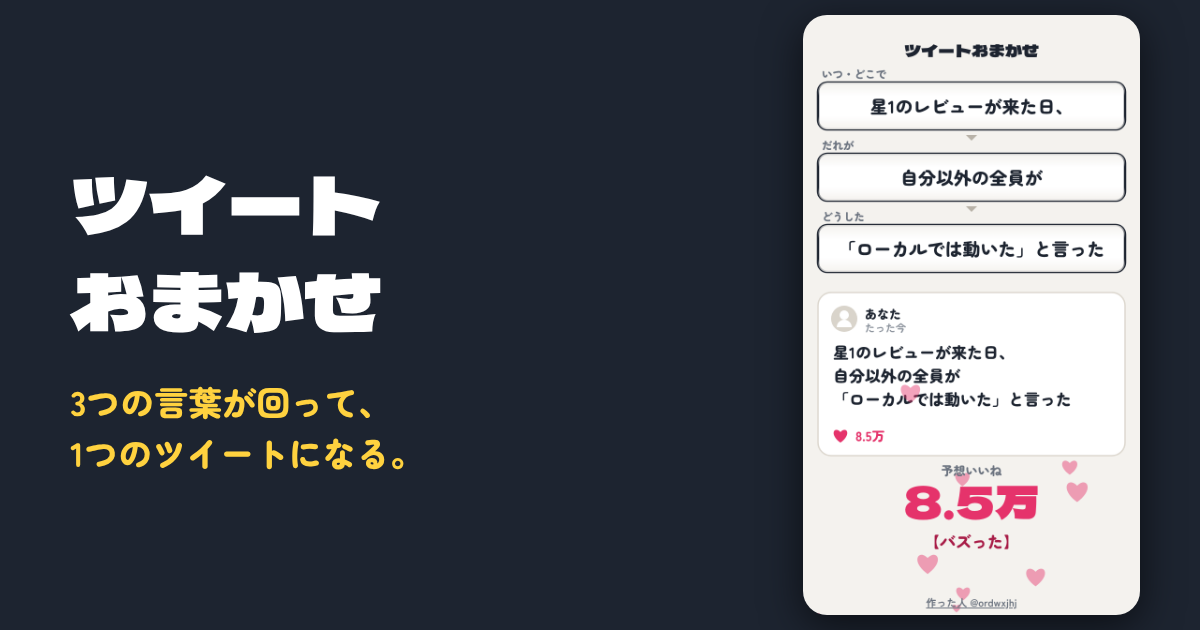
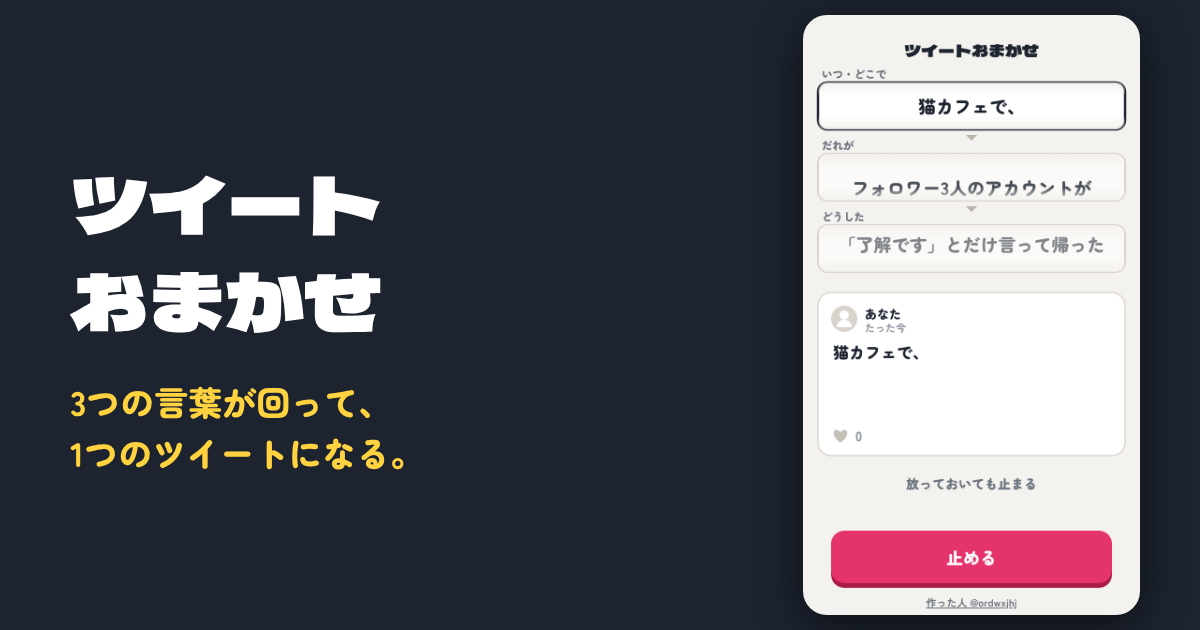
omakase: posts link to the main page again, card image shows spinning reels
Claude-Session: https://claude.ai/code/session_01E5BBq5P7krJBE4nbriTXry

diff --git a/omakase/index.html b/omakase/index.html
@@ -495,8 +495,8 @@ if(typeof module!=='undefined')module.exports={REELS,THEME};
 const $=id=>document.getElementById(id);
 const GAME='ツイートおまかせ';
 const CREATOR='@ordwxjhj';
-/* posts made from the game link to /omakase/p/, a copy of this page without the link-card tags, so X shows no picture under them (本人 11/12) */
-const SHARE_URL='https://kzaaa00.github.io/omakase/p/';
+/* posts link to the main page, which has the link card (本人 11/12: 画像ありに戻す). /omakase/p/ stays up so links already posted keep working. */
+const SHARE_URL='https://kzaaa00.github.io/omakase/';
 const LABELS=['いつ・どこで','だれが','どうした','おまけ'];
 const AUTO_STOP=2.4;      /* a reel nobody stops stops by itself after this many seconds: it is "おまかせ" after all */
 const SPEED=11;           /* words per second while spinning */

diff --git a/omakase/p/index.html b/omakase/p/index.html
@@ -489,8 +489,8 @@ if(typeof module!=='undefined')module.exports={REELS,THEME};
 const $=id=>document.getElementById(id);
 const GAME='ツイートおまかせ';
 const CREATOR='@ordwxjhj';
-/* posts made from the game link to /omakase/p/, a copy of this page without the link-card tags, so X shows no picture under them (本人 11/12) */
-const SHARE_URL='https://kzaaa00.github.io/omakase/p/';
+/* posts link to the main page, which has the link card (本人 11/12: 画像ありに戻す). /omakase/p/ stays up so links already posted keep working. */
+const SHARE_URL='https://kzaaa00.github.io/omakase/';
 const LABELS=['いつ・どこで','だれが','どうした','おまけ'];
 const AUTO_STOP=2.4;      /* a reel nobody stops stops by itself after this many seconds: it is "おまかせ" after all */
 const SPEED=11;           /* words per second while spinning */
